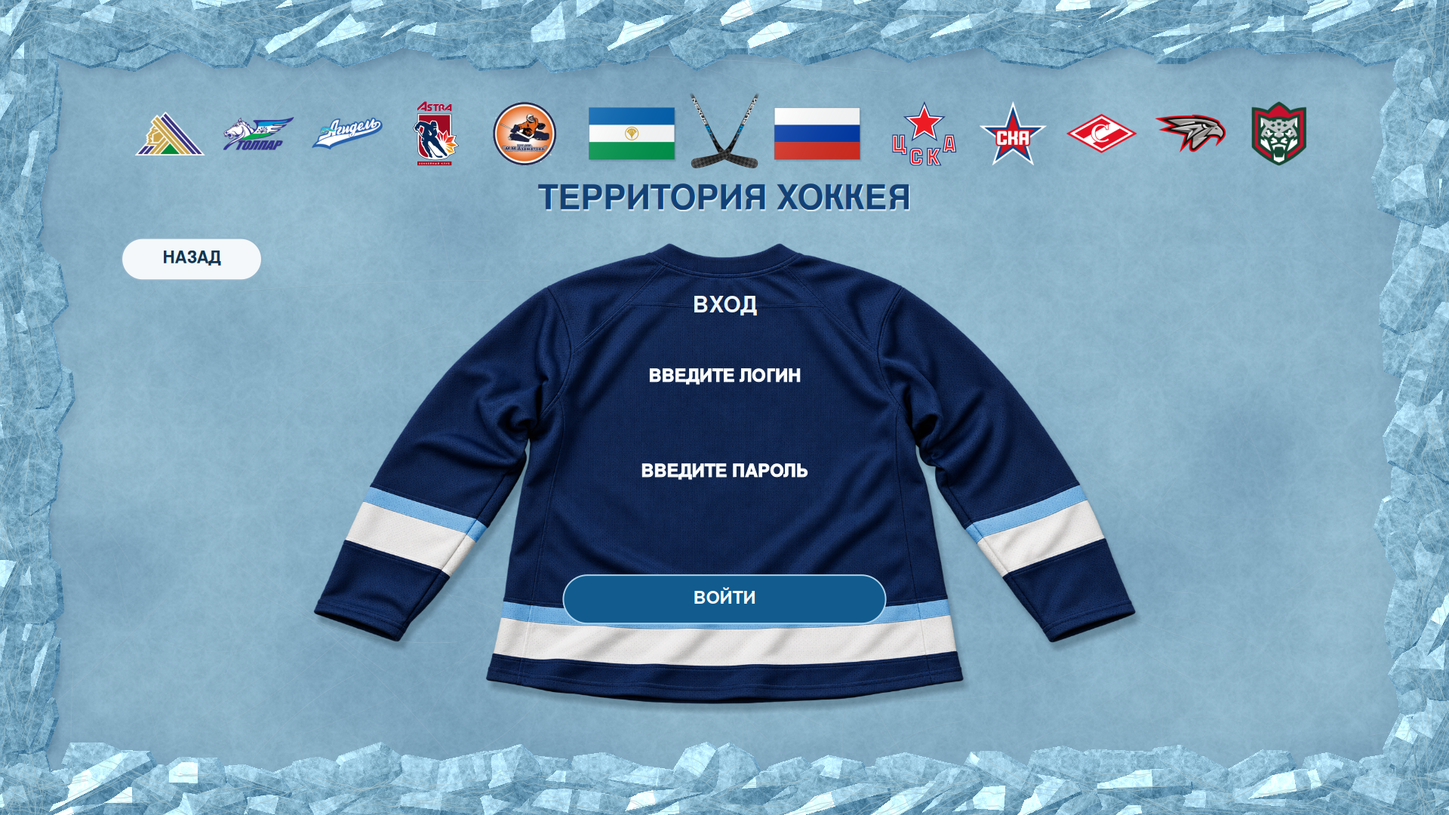
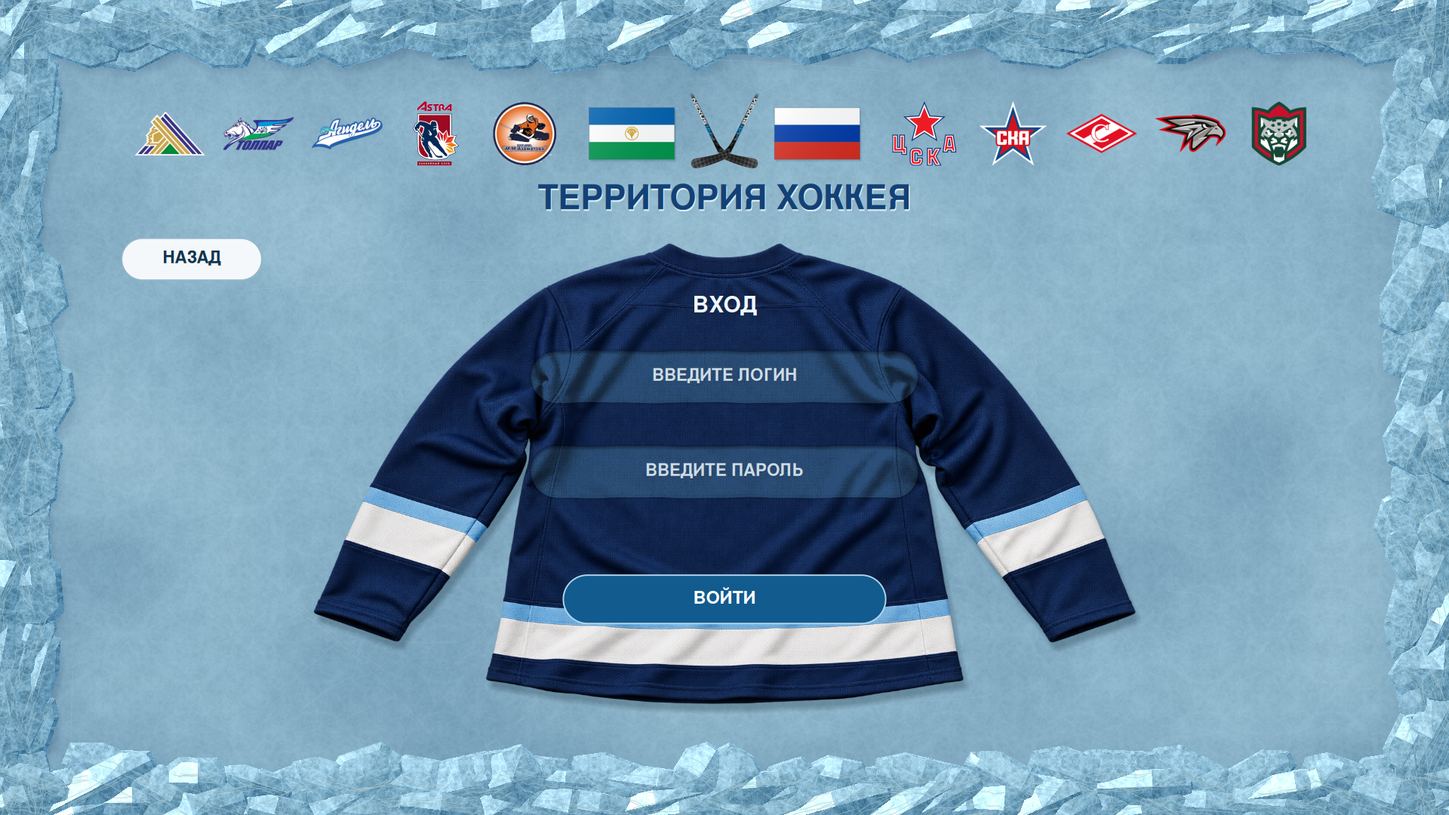
Restore oval jersey input panels without dashed outlines
Return login and registration to the previous tonal fabric insets and native placeholder appearance. Remove the direct-lettering treatment while preserving the user's standing ban on dashed and dotted control borders; keep native text editing, password masking and keyboard navigation.

Update project guidance and previews to the restored appearance.

Validation: Windows Release build with zero warnings/errors; both forms rendered at 960 and 1920; full-patch and band rendering match exactly at Full HD, 4K and a native 32K crop; no dashed border or focus-rectangle drawing remains in control code. Interactive Windows UI was not run in this Linux environment.

Changed region(s): [[0.3438, 0.4278, 0.6562, 0.5194], [0.3438, 0.55, 0.6562, 0.6111]]

diff --git a/COURSE_3/EP_TPaD_DB/App_C#/App/JerseyFieldDrawing.cs b/COURSE_3/EP_TPaD_DB/App_C#/App/JerseyFieldDrawing.cs
@@ -1,91 +1,53 @@
-using System.Drawing.Drawing2D;
-using System.Drawing.Imaging;
-using System.Runtime.InteropServices;
-
 namespace LP_PopovD_App
 {
-    // Только надпись на ткани. У области ввода нет отдельной поверхности или контура.
     internal static class JerseyFieldDrawing
     {
         internal static readonly Color Ink = Color.FromArgb(235, 241, 245);
-        internal static readonly Color FallbackFill = Color.FromArgb(9, 26, 51);
+        internal static readonly Color CueInk = Color.FromArgb(204, 220, 231);
+        internal static readonly Color FallbackFill = Color.FromArgb(24, 46, 70);
 
-        internal static void DrawCue(Graphics g, RectangleF bounds, string text, RectangleF? viewport = null)
+        private static float Ripple(float x, RectangleF bounds)
+            => .55f * MathF.Sin((x - bounds.X) * .047f + bounds.Y * .031f)
+                + .25f * MathF.Sin((x - bounds.X) * .113f + bounds.Y * .019f);
+
+        // Плоскость вставки использует свет и складки той же ткани, что и спинка.
+        internal static void Shade(float x, float y, float scale, RectangleF bounds, float alpha,
+            ref float red, ref float green, ref float blue)
         {
-            if (string.IsNullOrEmpty(text)) return;
-            RectangleF visible = viewport.HasValue ? RectangleF.Intersect(bounds, viewport.Value) : bounds;
-            if (visible.IsEmpty) return;
-            using Matrix transform = g.Transform;
-            float[] m = transform.Elements;
-            float sx = m[0], sy = m[3], dx = m[4], dy = m[5];
-            if (sx <= 0 || sy <= 0 || Math.Abs(m[1]) > .001f || Math.Abs(m[2]) > .001f)
-                throw new NotSupportedException("Для надписи нужен прямой масштаб без поворота.");
-            int left = (int)MathF.Floor(visible.Left * sx + dx), top = (int)MathF.Floor(visible.Top * sy + dy);
-            int width = (int)MathF.Ceiling(visible.Right * sx + dx) - left;
-            int height = (int)MathF.Ceiling(visible.Bottom * sy + dy) - top;
-            if (width < 1 || height < 1) return;
+            if (x < bounds.Left - 4 || x > bounds.Right + 4 || y < bounds.Top - 5 || y > bounds.Bottom + 5) return;
+            float radius = bounds.Height / 2;
+            float py = y - (bounds.Top + radius) + Ripple(x, bounds);
+            float px = Math.Max(0, Math.Abs(x - (bounds.Left + bounds.Width / 2)) - (bounds.Width / 2 - radius));
+            float distance = MathF.Sqrt(px * px + py * py) - radius;
+            if (distance > 3) return;
+            float normalY = Math.Clamp(py / radius, -1, 1);
+            float coverage = Math.Clamp(.5f - distance * scale, 0, 1);
+            float clothAlpha = alpha / 255;
+            float light = Math.Clamp(.52f + (red * .2126f + green * .7152f + blue * .0722f) / Math.Max(1, clothAlpha) / 34,
+                .58f, 1.65f);
+            float upper = (1 - normalY) / 2;
+            float insetShadow = Math.Max(0, 1 + distance / 5) * (.11f + .28f * upper);
+            float lowerLip = Math.Max(0, 1 - Math.Abs(distance + 1.4f) / 1.1f) * Math.Max(0, normalY) * .12f;
+            float lighting = light * (1 - insetShadow) + lowerLip;
+            red += (26 * lighting * clothAlpha - red) * coverage;
+            green += (48 * lighting * clothAlpha - green) * coverage;
+            blue += (73 * lighting * clothAlpha - blue) * coverage;
+            if (distance > 0)
+            {
+                float contact = 1 - (1 - distance / 3) * .18f * (1 - coverage);
+                red *= contact; green *= contact; blue *= contact;
+            }
+        }
 
-            using FontFamily family = new(RinkTypography.FamilyName);
-            using StringFormat centered = new()
-            {
-                Alignment = StringAlignment.Center, LineAlignment = StringAlignment.Center,
-                FormatFlags = StringFormatFlags.NoWrap
-            };
-            using GraphicsPath letters = new();
-            letters.AddString(text, family, (int)FontStyle.Bold, 22, bounds, centered);
-            if (letters.PointCount == 0) return;
-            PointF[] points = letters.PathPoints;
-            float centerY = bounds.Top + bounds.Height / 2;
-            float centerLight = JerseyFabricDrawing.InkLight(bounds.Left + bounds.Width / 2, centerY);
-            for (int i = 0; i < points.Length; i++)
-            {
-                points[i].Y += Math.Clamp((JerseyFabricDrawing.InkLight(points[i].X, centerY) - centerLight) * 2, -.5f, .5f);
-                // Масштабируем координаты один раз: смена полосы не меняет сглаживание контура.
-                points[i].X = (float)((double)points[i].X * sx + dx - left);
-                points[i].Y = (float)((double)points[i].Y * sy + dy - top);
-            }
-            using GraphicsPath conformed = new(points, letters.PathTypes, letters.FillMode);
-
-            // Маска ограничена видимой полосой, в том числе при экспорте 32K.
-            using Bitmap print = new(width, height, PixelFormat.Format32bppPArgb);
-            print.SetResolution(96, 96);
-            using (Graphics mask = Graphics.FromImage(print))
-            {
-                mask.SmoothingMode = SmoothingMode.AntiAlias;
-                mask.PixelOffsetMode = PixelOffsetMode.HighQuality;
-                mask.FillPath(Brushes.White, conformed);
-            }
-            BitmapData data = print.LockBits(new Rectangle(Point.Empty, print.Size),
-                ImageLockMode.ReadWrite, PixelFormat.Format32bppPArgb);
-            try
-            {
-                int[] row = new int[width];
-                for (int y = 0; y < height; y++)
-                {
-                    IntPtr address = IntPtr.Add(data.Scan0, y * data.Stride);
-                    Marshal.Copy(address, row, 0, width);
-                    float wy = (top + y + .5f - dy) / sy;
-                    for (int x = 0; x < width; x++)
-                    {
-                        int alpha = (int)((uint)row[x] >> 24);
-                        if (alpha == 0) continue;
-                        float wx = (left + x + .5f - dx) / sx;
-                        float light = JerseyFabricDrawing.InkLight(wx, wy);
-                        int r = (int)Math.Clamp(Ink.R * light, 0, 255) * alpha / 255;
-                        int green = (int)Math.Clamp(Ink.G * light, 0, 255) * alpha / 255;
-                        int b = (int)Math.Clamp(Ink.B * light, 0, 255) * alpha / 255;
-                        row[x] = alpha << 24 | r << 16 | green << 8 | b;
-                    }
-                    Marshal.Copy(row, 0, address, width);
-                }
-            }
-            finally { print.UnlockBits(data); }
-            GraphicsState state = g.Save();
-            g.ResetTransform();
-            g.InterpolationMode = InterpolationMode.NearestNeighbor;
-            g.PixelOffsetMode = PixelOffsetMode.None;
-            g.DrawImageUnscaled(print, left, top);
-            g.Restore(state);
+        internal static void DrawCue(Graphics g, RectangleF bounds, string text)
+        {
+            using Font font = new(RinkTypography.FamilyName, 21, FontStyle.Bold, GraphicsUnit.Pixel);
+            using StringFormat centered = new() { Alignment = StringAlignment.Center, LineAlignment = StringAlignment.Center };
+            using SolidBrush shadow = new(Color.FromArgb(115, 3, 10, 22));
+            using SolidBrush ink = new(CueInk);
+            RectangleF offset = bounds; offset.Offset(0, .7f);
+            g.DrawString(text, font, shadow, offset, centered);
+            g.DrawString(text, font, ink, bounds, centered);
         }
     }
 }

diff --git a/COURSE_3/EP_TPaD_DB/App_C#/App/CapsuleInput.cs b/COURSE_3/EP_TPaD_DB/App_C#/App/CapsuleInput.cs
@@ -8,22 +8,12 @@ namespace LP_PopovD_App
     internal sealed class CapsuleInput : UserControl
     {
         private readonly TextBox input = new();
-        private readonly ClothCue cue = new();
+        private readonly Label cue = new();
         private Font? inputFont;
         private Font? cueFont;
         private float textPixels;
         private IntPtr fabricBrush;
         protected override bool ShowFocusCues => false;
-
-        private sealed class ClothCue : Label
-        {
-            protected override void OnPaintBackground(PaintEventArgs e) { }
-            protected override void OnPaint(PaintEventArgs e)
-            {
-                if (Parent is CapsuleInput field) field.PaintCue(e.Graphics, Bounds);
-                else base.OnPaint(e);
-            }
-        }
 
         [Browsable(false), DesignerSerializationVisibility(DesignerSerializationVisibility.Hidden)]
         internal RectangleF SceneBounds { get; set; } = new(560, 330, 480, 64);
@@ -52,7 +42,7 @@ namespace LP_PopovD_App
             cue.Text = placeholder;
             cue.TextAlign = ContentAlignment.MiddleCenter;
             cue.BackColor = Color.Transparent;
-            cue.ForeColor = JerseyFieldDrawing.Ink;
+            cue.ForeColor = JerseyFieldDrawing.CueInk;
             cue.TabStop = false;
             cue.Cursor = Cursors.IBeam;
             cue.AccessibleName = placeholder;
@@ -72,8 +62,8 @@ namespace LP_PopovD_App
             if (Math.Abs(textPixels - pixels) < 0.05f) return;
             textPixels = pixels;
             Font? oldInput = inputFont, oldCue = cueFont;
-            inputFont = new Font(RinkTypography.FamilyName, pixels, FontStyle.Bold, GraphicsUnit.Pixel);
-            cueFont = new Font(RinkTypography.FamilyName, pixels, FontStyle.Bold, GraphicsUnit.Pixel);
+            inputFont = new Font(RinkTypography.FamilyName, pixels, FontStyle.Regular, GraphicsUnit.Pixel);
+            cueFont = new Font(RinkTypography.FamilyName, Math.Max(12, 21 * scale), FontStyle.Bold, GraphicsUnit.Pixel);
             input.Font = inputFont;
             cue.Font = cueFont;
             oldInput?.Dispose();
@@ -111,22 +101,7 @@ namespace LP_PopovD_App
         {
             OnPaintBackground(e);
             base.OnPaint(e);
-        }
 
-        private void PaintCue(Graphics g, Rectangle localBounds)
-        {
-            if (Parent is not Form1 form) return;
-            Rectangle pixels = new(Left + localBounds.Left, Top + localBounds.Top, localBounds.Width, localBounds.Height);
-            form.PaintScene(g, pixels);
-            RectangleF canvas = RinkDrawing.GetCanvasBounds(form.ClientSize);
-            float scale = canvas.Width / RinkDrawing.Width;
-            GraphicsState state = g.Save();
-            g.TranslateTransform(canvas.X - pixels.X, canvas.Y - pixels.Y);
-            g.ScaleTransform(scale, scale);
-            RectangleF viewport = new((pixels.X - canvas.X) / scale, (pixels.Y - canvas.Y) / scale,
-                pixels.Width / scale, pixels.Height / scale);
-            JerseyFieldDrawing.DrawCue(g, SceneBounds, cue.Text, viewport);
-            g.Restore(state);
         }
 
         // Стандартный EDIT сохраняет каретку, выделение, Tab, IME и маскировку пароля.

diff --git a/COURSE_3/EP_TPaD_DB/App_C#/App/JerseyFabricDrawing.cs b/COURSE_3/EP_TPaD_DB/App_C#/App/JerseyFabricDrawing.cs
@@ -106,19 +106,7 @@ namespace LP_PopovD_App
             }
         }
 
-        internal static float InkLight(float x, float y)
-        {
-            material ??= new Fabric();
-            Fabric fabric = material;
-            float u = fabric.Crop.Left + (x - BodyBounds.X) * fabric.Crop.Width / BodyBounds.Width - .5f;
-            float v = fabric.Crop.Top + (y - BodyBounds.Y) * fabric.Crop.Height / BodyBounds.Height - .5f;
-            fabric.Read(u, v, out float alpha, out float r, out float green, out float b);
-            if (alpha < 16) return 1;
-            float luminance = (r * .2126f + green * .7152f + b * .0722f) * 255 / alpha;
-            return Math.Clamp(.77f + luminance * .01f, .80f, 1.08f);
-        }
-
-        internal static void Draw(Graphics g, RectangleF? viewport)
+        internal static void Draw(Graphics g, RectangleF? viewport, RectangleF[]? fields = null)
         {
             material ??= new Fabric();
             Fabric fabric = material;
@@ -150,6 +138,9 @@ namespace LP_PopovD_App
                             float wx = (left + x + .5f - dx) / sx;
                             float u = fabric.Crop.Left + (wx - BodyBounds.X) * sourceScaleX - .5f;
                             fabric.Read(u, v, out float a, out float r, out float green, out float b);
+                            if (a > 16 && fields != null)
+                                foreach (RectangleF field in fields)
+                                    JerseyFieldDrawing.Shade(wx, wy, Math.Min(sx, sy), field, a, ref r, ref green, ref b);
                             if (a > 16 && detail > 0)
                             {
                                 // Тонкое плетение строится в целевых пикселях, а не увеличивается из PNG.

diff --git a/COURSE_3/EP_TPaD_DB/App_C#/App/JerseyDrawing.cs b/COURSE_3/EP_TPaD_DB/App_C#/App/JerseyDrawing.cs
@@ -35,7 +35,7 @@ namespace LP_PopovD_App
                 return;
             }
             RectangleF[] inputs = InputBounds(registration);
-            JerseyFabricDrawing.Draw(g, viewport);
+            JerseyFabricDrawing.Draw(g, viewport, inputs);
 
             using Font title = new(RinkTypography.FamilyName, 28, FontStyle.Bold, GraphicsUnit.Pixel);
             using SolidBrush white = new(Color.FromArgb(239, 247, 252));
@@ -52,7 +52,7 @@ namespace LP_PopovD_App
                 ? new[] { "ВВЕДИТЕ ЛОГИН", "ВВЕДИТЕ ПАРОЛЬ", "ВВЕДИТЕ ЭЛЕКТРОННУЮ ПОЧТУ" }
                 : new[] { "ВВЕДИТЕ ЛОГИН", "ВВЕДИТЕ ПАРОЛЬ" };
             for (int i = 0; i < inputs.Length; i++)
-                JerseyFieldDrawing.DrawCue(g, inputs[i], prompts[i], viewport);
+                JerseyFieldDrawing.DrawCue(g, inputs[i], prompts[i]);
             DrawCapsule(g, SubmitBounds, registration ? "ЗАРЕГИСТРИРОВАТЬСЯ" : "ВОЙТИ", true);
             DrawCapsule(g, BackBounds, "НАЗАД", false);
         }

diff --git a/COURSE_3/EP_TPaD_DB/App_C#/README.md b/COURSE_3/EP_TPaD_DB/App_C#/README.md
@@ -30,7 +30,7 @@
 ![Экран входа](Login_Preview.png)
 
 Кнопка **ВОЙТИ** открывает отдельный экран с задней стороной хоккейной майки.
-На её спине расположены две области ввода прямо на ткани: логин и пароль.
+На её спине расположены два длинных овальных поля: логин и пароль.
 Подсказка исчезает при фокусе, после чего можно вводить текст.
 Если поле осталось пустым, подсказка возвращается после ухода фокуса.
 
@@ -42,14 +42,14 @@
 Майка использует фотореалистическую основу: тяжёлая сетчатая ткань, естественные складки
 на рукавах и спинке, усиленные плечевые швы, вязаный воротник, объёмные манжеты и подгибка.
 Мягкая тень отделяет ткань от льда. Все поля целиком помещаются на широкой спинке.
-Ввод расположен непосредственно в поверхности майки, как надпись с фамилией или номером игрока.
-Отдельных овальных вставок, плашек, контуров и швов вокруг ввода нет. Подсказки имеют лёгкую
-деформацию и оттенок печати, рассчитанные по фактуре и освещению ткани. Меняются только пиксели букв;
-сама майка во всей области ввода остаётся неизменной. При фокусе подсказка исчезает и появляется каретка.
-Нативный TextBox получает исходный фон майки через кисть Windows GDI, без отдельной заливки под текстом.
+По последнему указанию пользователя возвращены овальные тканевые вставки в тон майки.
+Их материал сохраняет освещение, сетчатую фактуру и складки спинки; внутренняя тень
+придаёт краю небольшую глубину. Контурные строчки и пунктирные рамки удалены.
+Нативный TextBox получает фон из того же фрагмента сцены
+через кисть Windows GDI; сплошная прямоугольная заливка под текстом не используется.
 Фон кисти обновляется при перемещении, изменении размеров поля и обновлении сцены;
 GDI-объекты освобождаются.
-[Jersey_Fields_Detail_32K.png](Jersey_Fields_Detail_32K.png) показывает надпись на ткани
+[Jersey_Fields_Detail_32K.png](Jersey_Fields_Detail_32K.png) показывает край тканевой вставки
 в масштабе 1:1: это фрагмент 1600 × 1200 из отрисовки 30720 × 17280.
 
 **Постоянное правило пользователя:** у полей и кнопок запрещены пунктирные, прерывистые и точечные
@@ -201,11 +201,8 @@ JPEG поддерживается до 15360 пикселей по ширине;
 - Проверены обязательность полей и формат электронной почты.
 - Для новой майки проверено попадание полей на непрозрачную ткань и совпадение отрисовки
   одним фрагментом и полосами в Full HD, 4K и на фрагменте 32K.
-- Для ввода на ткани проверены читаемость надписей, стыки полос и точное сохранение
-  всех пикселей майки за пределами букв в Full HD, 4K и на фрагменте 32K.
-- Минимальный измеренный контраст внутри букв — 10,92:1; при сравнении цельного фрагмента
-  с отрисовкой полосами максимальная разница канала составляет 1 из 255.
-- Проверено отсутствие контурных строчек, прерывистых рамок и стандартных focus rectangle в коде элементов ввода и кнопок.
+- Для овальных вставок проверены общий материал в UI и экспорте, читаемость подсказок,
+  стыки полос и отсутствие кода прерывистых контуров у полей и кнопок.
 - Отрисованы 25 кадров пролёта камеры со снегом, собран GIF-пример.
 
 Само окно WinForms в Windows в этой среде не запускалось.

diff --git a/COURSE_3/EP_TPaD_DB/App_C#/AGENTS.md b/COURSE_3/EP_TPaD_DB/App_C#/AGENTS.md
@@ -6,9 +6,7 @@
   Запрет действует во всех состояниях: обычном, при наведении, нажатии и фокусе с клавиатуры.
 - Не использовать стандартный Windows focus rectangle и не имитировать его строчкой или швом.
   Кнопки обозначают фокус изменением тона, текстовые поля — кареткой.
-- Вход и регистрация: ввод находится непосредственно на ткани майки, как надпись игрока.
-  У полей нет отдельной овальной панели, плашки, рамки, контурного шва или тени панели.
-  Нельзя возвращать такие панели, делая их прозрачными или меняя оттенок.
-- Фактура, складки и освещение самой майки продолжаются через область ввода без изменений.
-  Реальные элементы ввода должны сохранять редактирование, Tab и маскировку пароля.
+- По последнему указанию пользователя возвращён вариант входа и регистрации с овальными
+  тканевыми вставками в тон майки. Сохранять этот вариант; надписи без вставок отменены.
+- Сохранять реальные элементы ввода, редактирование, Tab и маскировку пароля.
 - Все файлы приложения сохранять в COURSE_3/EP_TPaD_DB/App_C# этого репозитория.
